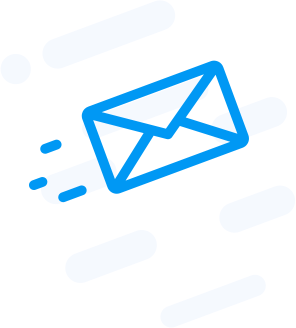
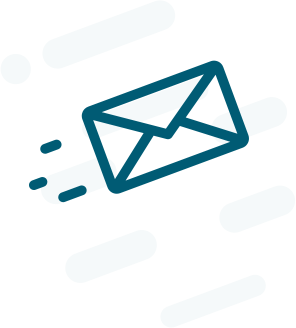
test design

diff --git a/css/main.css b/css/main.css
@@ -37,7 +37,7 @@ a:focus {
 
 a:hover {
   text-decoration: none;
-  color: #2b74c7;
+  color: #004052;
 }
 
 /*---------------------------------------------*/
@@ -128,13 +128,7 @@ iframe {
   width: 100%;
   min-height: 100%;
   padding: 15px;
-
-  background: #009bff;
-  background: -webkit-linear-gradient(left, #0072ff, #00c6ff);
-  background: -o-linear-gradient(left, #0072ff, #00c6ff);
-  background: -moz-linear-gradient(left, #0072ff, #00c6ff);
-  background: linear-gradient(left, #0072ff, #00c6ff);
-
+  background-image: linear-gradient(0deg, #004052, #005066, #00607a);
   display: -webkit-box;
   display: -webkit-flex;
   display: -moz-box;
@@ -235,7 +229,7 @@ textarea.input1 + .shadow-input1 {
   width: 100%;
   height: 100%;
   box-shadow: 0px 0px 0px 0px;
-  color: rgba(37, 86, 160, 0.5);
+  color: #004052;
 }
 
 .input1:focus + .shadow-input1 {
@@ -272,7 +266,7 @@ textarea.input1 + .shadow-input1 {
   min-width: 193px;
   height: 50px;
   border-radius: 25px;
-  background: #2862b8;
+  background: #004052;
   font-family: Outfit, sans-serif;
   font-size: 15px;
   line-height: 1.5;

diff --git a/css/style.css b/css/style.css
@@ -312,7 +312,7 @@ ul li a:hover::before {
 #skills {
   width: 100%;
   min-height: 100%;
-  background: #004052;
+  background-image: linear-gradient(180deg, #004052, #005066, #00607a);
 }
 #progress {
   width: 75%;
